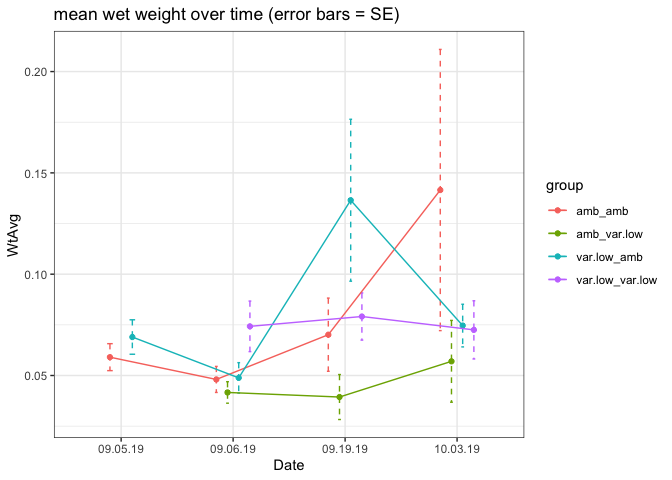
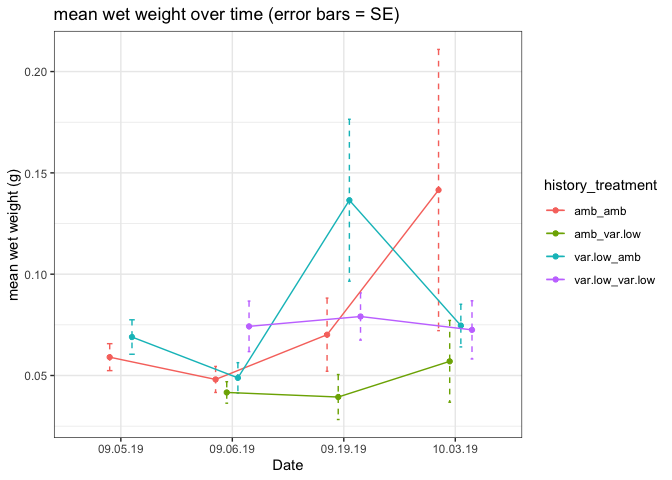
mean shell length and wet weight over time analysis

diff --git a/amb_v_varlowpH_juvis/analyses/Respirometry/Resp.Calculations.ST.md b/amb_v_varlowpH_juvis/analyses/Respirometry/Resp.Calculations.ST.md
@@ -402,7 +402,7 @@ test_mean$group <- paste(test_mean$Parental.history, test_mean$Sw.Condition, sep
 pd <- position_dodge(0.4)
 
 #Plot shell length average over time as dots with error bars
-ggplot(test_mean, aes(x = Date, y = LengthAvg, color = group, group = group)) + geom_point(position = pd) + geom_errorbar(data = test_mean, aes(ymin = LengthAvg-LengthSE, ymax = LengthAvg+LengthSE), width = 0.1, position = pd, linetype = "dashed") + geom_line(position = pd) + theme_bw()+ ggtitle("mean shell length over time (error bars = SE)")
+ggplot(test_mean, aes(x = Date, y = LengthAvg, color = group, group = group)) + geom_point(position = pd) + geom_errorbar(data = test_mean, aes(ymin = LengthAvg-LengthSE, ymax = LengthAvg+LengthSE), width = 0.1, position = pd, linetype = "dashed") + geom_line(position = pd) + theme_bw()+ ylab("mean shell length (cm)") +labs(color = "history_treatment", title ="mean shell length over time (error bars = SE)" )
 ```
 
 ![](Resp.Calculations.ST_files/figure-markdown_github/unnamed-chunk-23-3.png)
@@ -415,7 +415,7 @@ test_Wtmean <- summarize(test, WtAvg = mean(Wet.weight.g, na.rm = TRUE), WtSD = 
 test_Wtmean$group <- paste(test_Wtmean$Parental.history, test_Wtmean$Sw.Condition, sep = "_")
 
 #Plot wet weight average over time as dots with error bars
-ggplot(test_Wtmean, aes(x = Date, y = WtAvg, color = group, group = group)) + geom_point(position = pd) + geom_errorbar(data = test_Wtmean, aes(ymin = WtAvg-WtSE, ymax = WtAvg+WtSE), width = 0.1, position = pd, linetype = "dashed") + geom_line(position = pd) + theme_bw() + ggtitle("mean wet weight over time (error bars = SE)")
+ggplot(test_Wtmean, aes(x = Date, y = WtAvg, color = group, group = group)) + geom_point(position = pd) + geom_errorbar(data = test_Wtmean, aes(ymin = WtAvg-WtSE, ymax = WtAvg+WtSE), width = 0.1, position = pd, linetype = "dashed") + geom_line(position = pd) + theme_bw() + ylab("mean wet weight (g)") + labs(color = "history_treatment", title ="mean wet weight over time (error bars = SE)" )
 ```
 
 ![](Resp.Calculations.ST_files/figure-markdown_github/unnamed-chunk-23-4.png)
